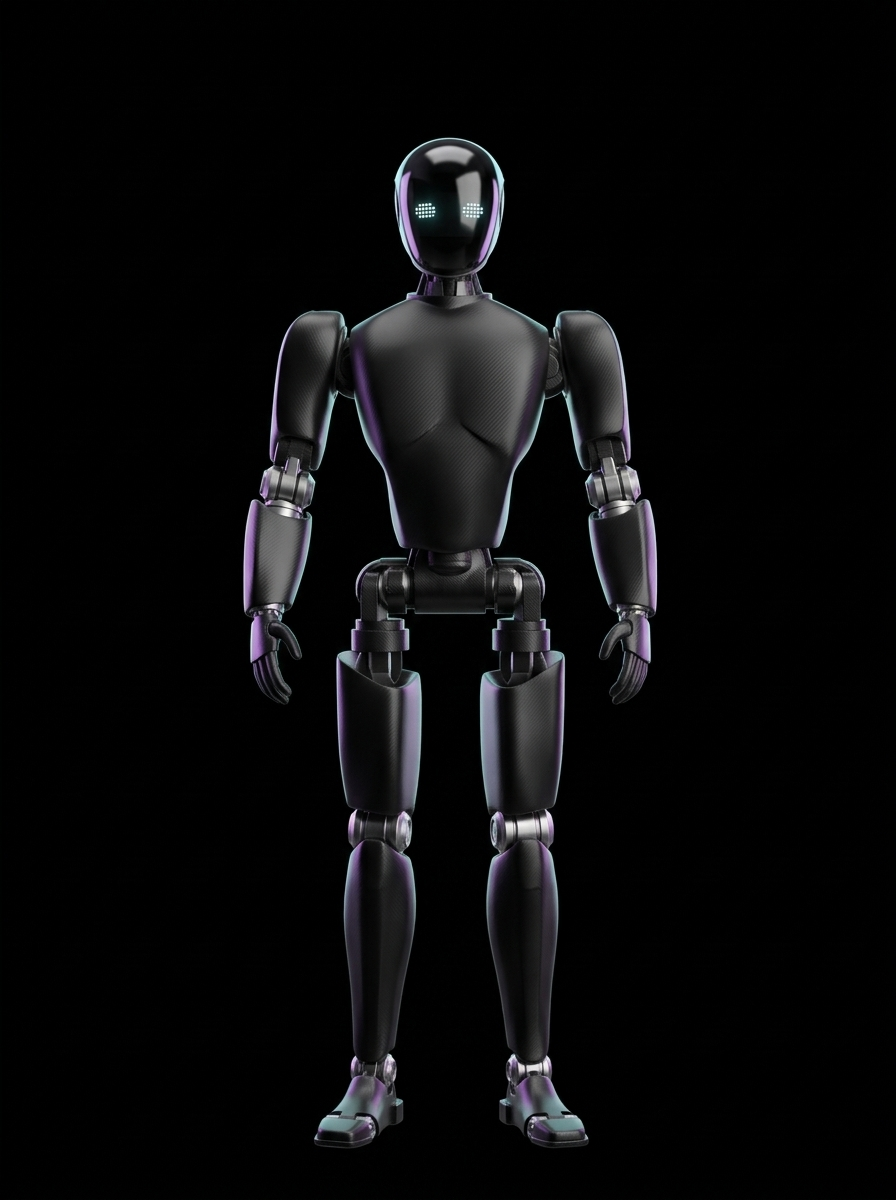
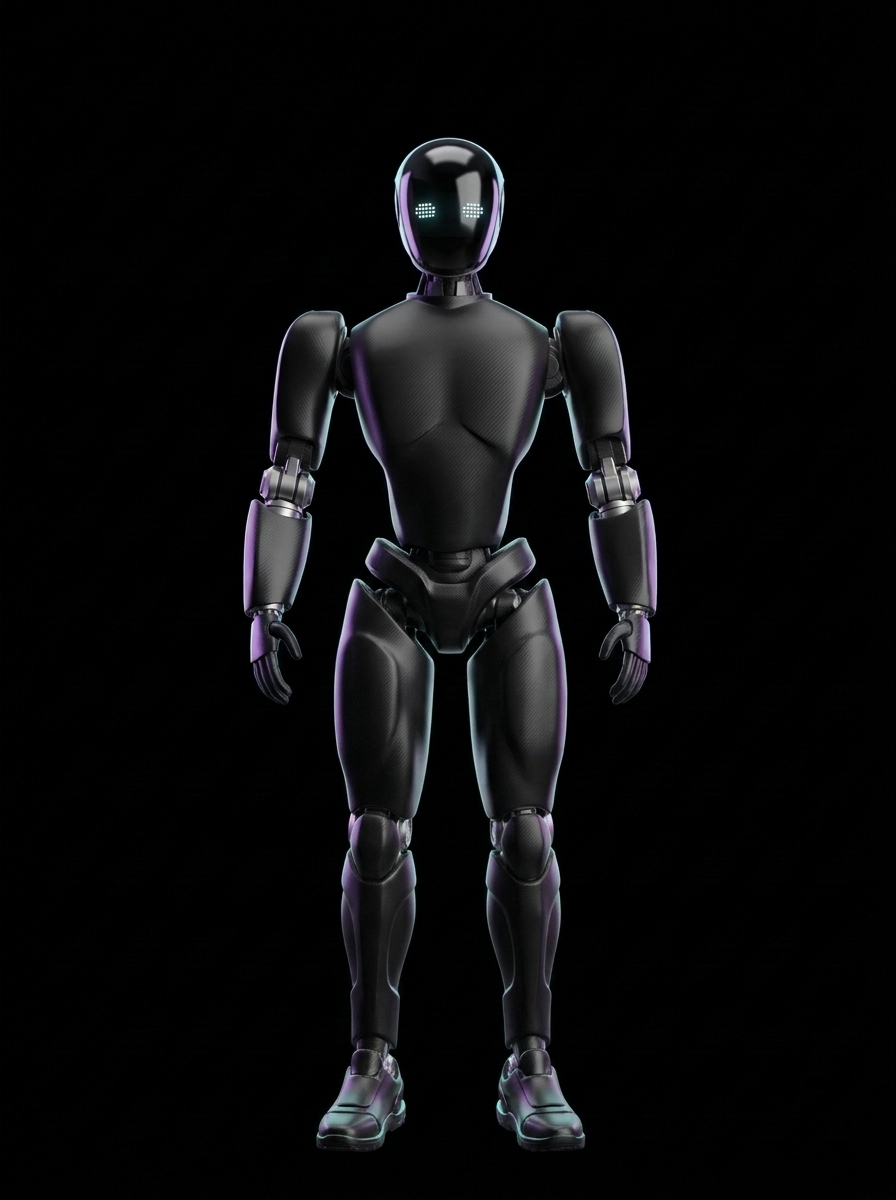
feat(learn): add properly designed, proportionate robotic legs and feet to character

diff --git a/src/components/ui/splite.tsx b/src/components/ui/splite.tsx
@@ -7,9 +7,10 @@ const Spline = lazy(() => import('@splinetool/react-spline'))
 interface SplineSceneProps {
   scene: string
   className?: string
+  onLoad?: (splineApp: unknown) => void
 }
 
-export function SplineScene({ scene, className }: SplineSceneProps) {
+export function SplineScene({ scene, className, onLoad }: SplineSceneProps) {
   return (
     <Suspense 
       fallback={
@@ -24,6 +25,7 @@ export function SplineScene({ scene, className }: SplineSceneProps) {
       <Spline
         scene={scene}
         className={className}
+        onLoad={onLoad}
       />
     </Suspense>
   )

diff --git a/src/components/features/home/LearnPreviewSection.tsx b/src/components/features/home/LearnPreviewSection.tsx
@@ -51,7 +51,6 @@ export function LearnPreviewSection() {
               alt="Music Theory AI Character"
               width={896}
               height={1200}
-              unoptimized
               priority
               className="h-full w-auto object-contain max-h-[620px] drop-shadow-[0_25px_60px_rgba(0,0,0,0.9)] transition-transform duration-500 ease-out hover:scale-[1.03]"
             />
